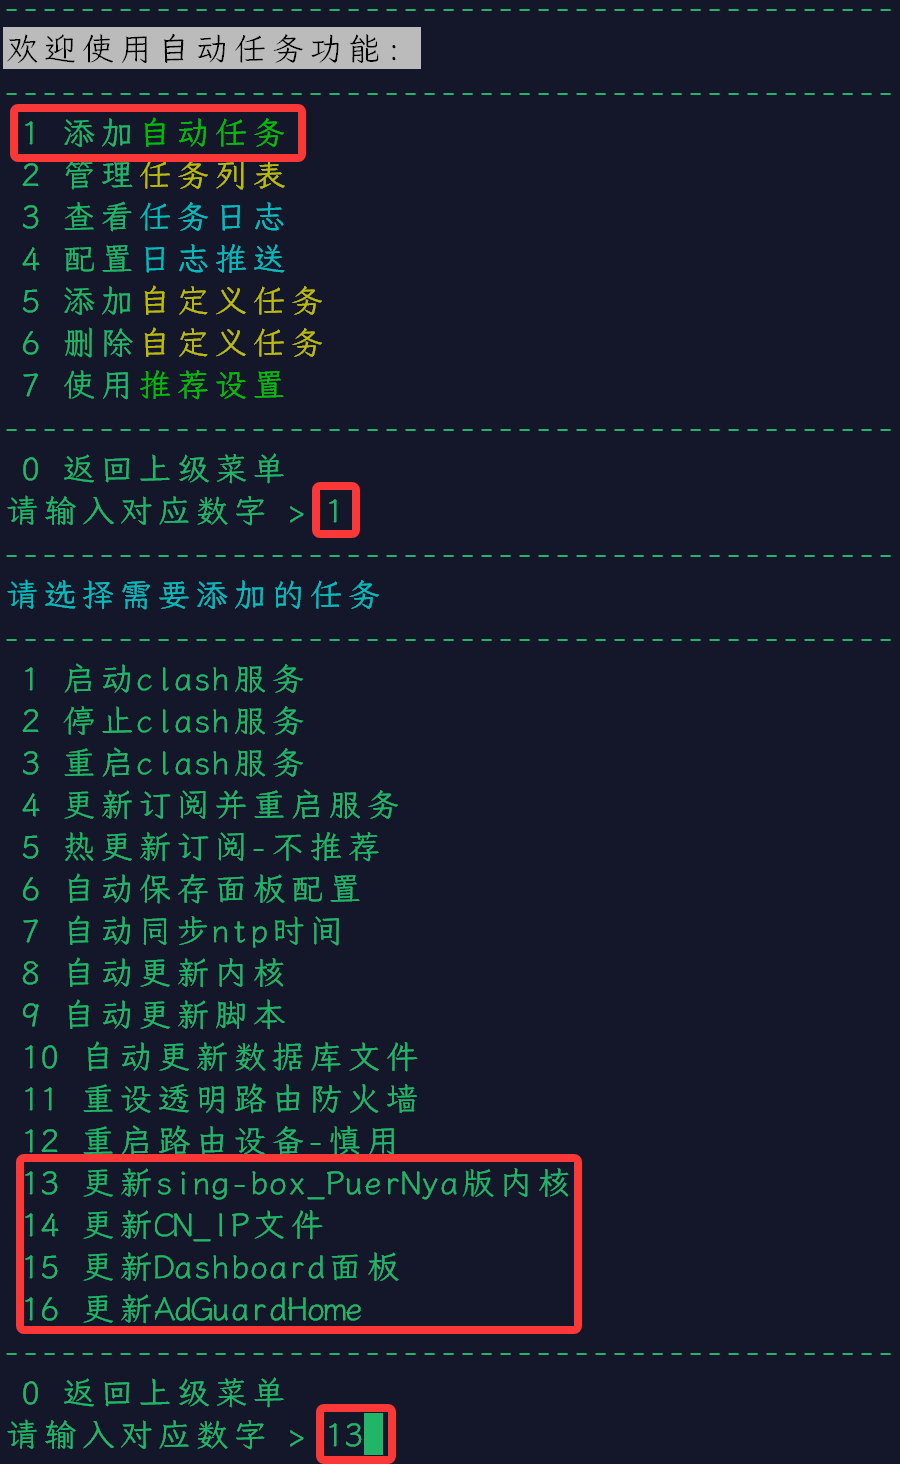
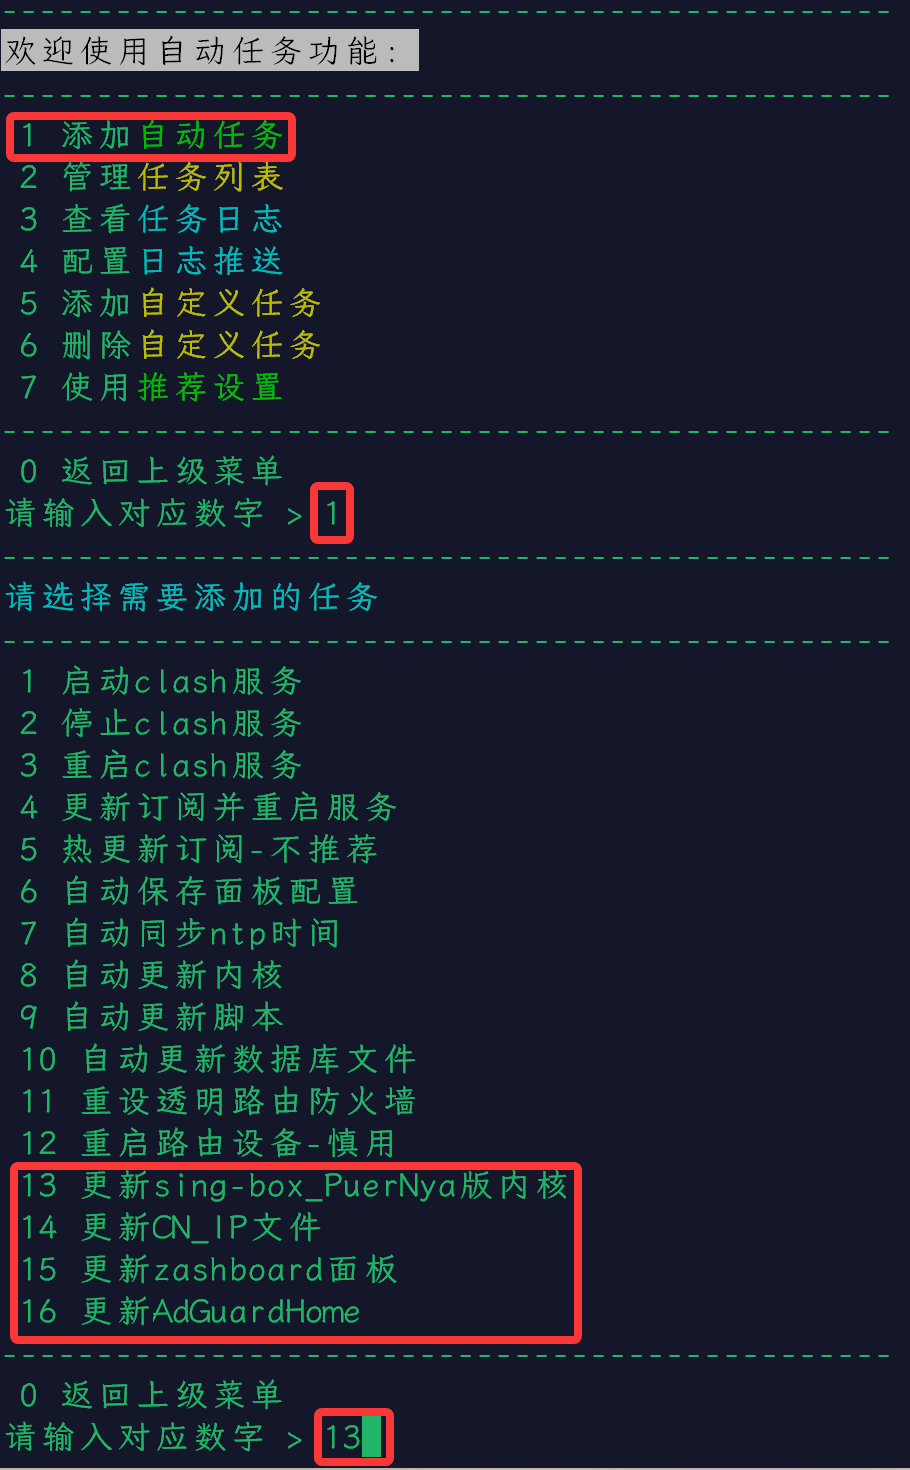
修改 Android 端分享教程为 Clash Mi；修改 zashboard 路径；其它优化

Changed region(s): [[0.0, 0.3074, 0.6533, 1.0], [0.0, 0.0, 0.4667, 0.2766], [0.3111, 0.9529, 0.4667, 1.0]]

diff --git a/_posts/2024-08-21-toolsettings-shellcrash-mihomo-geodata.md b/_posts/2024-08-21-toolsettings-shellcrash-mihomo-geodata.md
@@ -39,7 +39,7 @@ curl -o $CRASHDIR/Country.mmdb -L https://cdn.jsdelivr.net/gh/DustinWin/ruleset_
 ```shell
 201#curl -o $CRASHDIR/CrashCore.tar.gz -L https://ghfast.top/https://github.com/DustinWin/proxy-tools/releases/download/mihomo/mihomo-meta-linux-armv8.tar.gz && $CRASHDIR/start.sh restart >/dev/null 2>&1#更新mihomo内核
 202#curl -o $CRASHDIR/GeoSite.dat -L https://cdn.jsdelivr.net/gh/DustinWin/ruleset_geodata@mihomo-geodata/geosite-all.dat && curl -o $CRASHDIR/Country.mmdb -L https://cdn.jsdelivr.net/gh/DustinWin/ruleset_geodata@mihomo-geodata/Country.mmdb && $CRASHDIR/start.sh restart >/dev/null 2>&1#更新geodata路由规则文件
-203#curl -L https://ghfast.top/https://github.com/DustinWin/proxy-tools/releases/download/Dashboard/metacubexd.tar.gz | tar -zx -C $CRASHDIR/ui/ && $CRASHDIR/start.sh restart >/dev/null 2>&1#更新metacubexd面板
+203#curl -L https://ghfast.top/https://github.com/DustinWin/proxy-tools/releases/download/Dashboard/zashboard.tar.gz | tar -zx -C $CRASHDIR/ui/ && $CRASHDIR/start.sh restart >/dev/null 2>&1#更新zashboard面板
 ```
 
 按一下 Esc 键（退出键），输入英文冒号 `:`，继续输入 `wq` 并回车
@@ -67,11 +67,11 @@ curl -o $CRASHDIR/Country.mmdb -L https://cdn.jsdelivr.net/gh/DustinWin/ruleset_
 6. 进入主菜单 → 4 内核启动设置，选择 1 允许 ShellCrash 开机启动（若重启路由器后服务没有自动运行，可“设置自启延时”为 `30` 秒）
 7. 进入主菜单 → 5 配置自动任务 → 1 添加自动任务，可以看到末尾就有《[三](https://proxy-tutorials.dustinwin.us.kg/posts/toolsettings-shellcrash-mihomo-geodata/#%E4%B8%89-%E6%B7%BB%E5%8A%A0%E5%AE%9A%E6%97%B6%E4%BB%BB%E5%8A%A1)》中添加的定时任务，输入对应的数字并回车后可设置执行条件
 8. 进入主菜单 → 7 内核进阶设置，启用 4 启用域名嗅探
-9.  进入主菜单 → 6 导入配置文件 → 2 在线获取完整配置文件，粘贴《[生成带有自定义策略组和规则的 mihomo 配置文件直链-geodata 方案](https://proxy-tutorials.dustinwin.us.kg/posts/link-mihomo-geodata)》中生成的 .yaml 配置文件直链，启动服务即可
+9. 进入主菜单 → 6 导入配置文件 → 2 在线获取完整配置文件，粘贴《[生成带有自定义策略组和规则的 mihomo 配置文件直链-geodata 方案](https://proxy-tutorials.dustinwin.us.kg/posts/link-mihomo-geodata)》中生成的 .yaml 配置文件直链，启动服务即可
 10. 访问 Dashboard 面板 <http://192.168.31.1:9999/ui/>，首次打开需要添加“主机”和“端口”，分别填入 `192.168.31.1` 和 `9999` 并点击“添加”即可  
 <img src="/assets/img/tools/192-9999-dashboard.png" alt="设置部分 2" width="60%" />
 
-11.  进入 Dashboard 面板 → 代理 → 代理提供者，点击“转圈”图标，可手动更新节点
+11. 进入 Dashboard 面板 → 代理 → 代理提供者，点击“转圈”图标，可手动更新节点
 
 ## 五、 在线 Dashboard 面板
 推荐使用在线 Dashboard 面板 [zashboard](https://github.com/Zephyruso/zashboard)，网址：<https://board.zash.run.place>

diff --git a/_posts/2024-08-21-toolsettings-shellcrash-singboxp-geodata.md b/_posts/2024-08-21-toolsettings-shellcrash-singboxp-geodata.md
@@ -39,7 +39,7 @@ curl -o $CRASHDIR/geoip.db -L https://cdn.jsdelivr.net/gh/DustinWin/ruleset_geod
 ```shell
 201#curl -o $CRASHDIR/CrashCore.tar.gz -L https://ghfast.top/https://github.com/DustinWin/proxy-tools/releases/download/sing-box/sing-box-puernya-linux-armv8.tar.gz && $CRASHDIR/start.sh restart >/dev/null 2>&1#更新sing-box_PuerNya版内核
 202#curl -o $CRASHDIR/geosite.db -L https://cdn.jsdelivr.net/gh/DustinWin/ruleset_geodata@sing-box-geodata/geosite-all.db && curl -o $CRASHDIR/geoip.db -L https://cdn.jsdelivr.net/gh/DustinWin/ruleset_geodata@sing-box-geodata/geoip.db && $CRASHDIR/start.sh restart >/dev/null 2>&1#更新geodata路由规则文件
-203#curl -L https://ghfast.top/https://github.com/DustinWin/proxy-tools/releases/download/Dashboard/metacubexd.tar.gz | tar -zx -C $CRASHDIR/ui/ && $CRASHDIR/start.sh restart >/dev/null 2>&1#更新metacubexd面板
+203#curl -L https://ghfast.top/https://github.com/DustinWin/proxy-tools/releases/download/Dashboard/zashboard.tar.gz | tar -zx -C $CRASHDIR/ui/ && $CRASHDIR/start.sh restart >/dev/null 2>&1#更新zashboard面板
 ```
 
 按一下 Esc 键（退出键），输入英文冒号 `:`，继续输入 `wq` 并回车
@@ -67,7 +67,7 @@ curl -o $CRASHDIR/geoip.db -L https://cdn.jsdelivr.net/gh/DustinWin/ruleset_geod
 6. 进入主菜单 → 4 内核启动设置，选择 1 允许 ShellCrash 开机启动（若重启路由器后服务没有自动运行，可“设置自启延时”为 `30` 秒）
 7. 进入主菜单 → 5 配置自动任务 → 1 添加自动任务，可以看到末尾就有《[三](https://proxy-tutorials.dustinwin.us.kg/posts/toolsettings-shellcrash-singboxp-geodata/#%E4%B8%89-%E6%B7%BB%E5%8A%A0%E5%AE%9A%E6%97%B6%E4%BB%BB%E5%8A%A1)》中添加的定时任务，输入对应的数字并回车后可设置执行条件 
 8. 进入主菜单 → 6 导入配置文件 → 2 在线获取完整配置文件，粘贴《[生成带有自定义出站和规则的 sing-boxp 配置文件直链-geodata 方案](https://proxy-tutorials.dustinwin.us.kg/posts/link-singboxp-geodata)》中生成的 .json 配置文件直链，启动服务即可
-9.  访问 Dashboard 面板 <http://192.168.31.1:9999/ui/>，首次打开需要添加“主机”和“端口”，分别填入 `192.168.31.1` 和 `9999` 并点击“添加”即可  
+9. 访问 Dashboard 面板 <http://192.168.31.1:9999/ui/>，首次打开需要添加“主机”和“端口”，分别填入 `192.168.31.1` 和 `9999` 并点击“添加”即可  
 <img src="/assets/img/tools/192-9999-dashboard.png" alt="设置部分 2" width="60%" />
 
 10. 进入 Dashboard 面板 → 代理 → 代理提供者，点击“转圈”图标，可手动更新节点

diff --git a/_posts/2024-08-21-share-android-mihomo-ruleset.md b/_posts/2024-08-21-share-android-mihomo-ruleset.md
@@ -1,9 +1,9 @@
 ---
-title: 分享 FlClash for Android 采用 ruleset 方案的一套配置
+title: 分享 Clash Mi for Android 采用 ruleset 方案的一套配置
 description: 此配置搭载 mihomo 内核，采用 `RULE-SET` 规则搭配 .list 和 .mrs 规则集合文件
 date: 2024-08-21 18:08:13 +0800
 categories: [分享配置, Android]
-tags: [Clash, FlClash, mihomo, Android, ruleset, rule-set, 分享]
+tags: [Clash, Clash Mi, mihomo, Android, ruleset, rule-set, 分享]
 ---
 
 > 声明
@@ -308,11 +308,7 @@ dns:
 ---
 
 ## 二、 导入配置文件并启动
-1. 进入 [FlClash for Android](https://github.com/chen08209/FlClash) → 配置 → 添加配置 → URL，“URL”输入《[一](https://proxy-tutorials.dustinwin.us.kg/posts/share-android-mihomo-ruleset/#%E4%B8%80-%E7%94%9F%E6%88%90%E9%85%8D%E7%BD%AE%E6%96%87%E4%BB%B6-yaml-%E6%96%87%E4%BB%B6%E7%9B%B4%E9%93%BE)》中生成的配置文件 .yaml 直链，点击“提交”
-2. 待配置下载完成后返回到主界面，点击“▶”即可启动
-
-## 三、 在线 Dashboard 面板
-推荐使用在线 Dashboard 面板 [zashboard](https://github.com/Zephyruso/zashboard)，访问地址：<https://board.zash.run.place>
-1. 进入 FlClash for Android → 工具 → 设置 → 基本设置 → 常规，启用“外部控制器”
-2. 首次进入 <https://board.zash.run.place> 需要添加“后端地址”，直接点击“提交”即可访问 Dashboard 面板  
-<img src="/assets/img/share/127-9090-phone-dashboard.png" alt="在线 Dashboard 面板" width="60%" />
+1. 进入 [Clash Mi for Android](https://github.com/KaringX/clashmi) → “+”图标 → 添加配置链接，“配置链接/内容”输入《[一](https://proxy-tutorials.dustinwin.us.kg/posts/share-android-mihomo-ruleset/#%E4%B8%80-%E7%94%9F%E6%88%90%E9%85%8D%E7%BD%AE%E6%96%87%E4%BB%B6-yaml-%E6%96%87%E4%BB%B6%E7%9B%B4%E9%93%BE)》中生成的配置文件 .yaml 直链，点击“✓”
+2. 待配置下载完成后返回到主界面，进入核心设置，关闭所有配置项的覆写功能
+3. 再次返回到主界面，点击“未连接”右边的灰色按钮即可启动服务
+4. 待服务启动成功后可直接点击“面板”来使用 zashboard 面板

diff --git a/_posts/2024-08-21-pin-toolsinstall.md b/_posts/2024-08-21-pin-toolsinstall.md
@@ -12,7 +12,7 @@ pin: true
 1. 本教程中 **[AdGuard Home](https://github.com/AdguardTeam/AdGuardHome) 安装目录为 `/data/AdGuardHome`{: .filepath}**
 2. 本教程中的下载链接以 CPU 架构 ARMv8 为例，请注意修改链接后缀
 3. 查看 CPU 架构可连接 SSH 后执行命令 `uname -ms`，若执行结果是“linux aarch64”，就是搭载的 ARMv8 架构
-4. 以下所有命令均可全部复制后直接粘贴执行
+4. 以下所有命令均可全部复制后直接粘贴执行（若出现无法下载的情况，可更换[下载源](https://proxy-tutorials.dustinwin.us.kg/about/#%E5%AF%B9%E4%B8%8B%E8%BD%BD%E6%BA%90%E7%9A%84%E8%AF%B4%E6%98%8E)）
 
 ## 一、 安装 [ShellCrash](https://github.com/juewuy/ShellCrash)
 ### 1. 本地安装
@@ -84,11 +84,11 @@ curl -o $CRASHDIR/CrashCore.tar.gz -L https://ghfast.top/https://github.com/Dust
 连接 SSH 后执行如下命令：
 
 ```shell
-curl -L https://ghfast.top/https://github.com/DustinWin/proxy-tools/releases/download/Dashboard/metacubexd.tar.gz | tar -zx -C $CRASHDIR/ui/ && $CRASHDIR/start.sh restart
+curl -L https://ghfast.top/https://github.com/DustinWin/proxy-tools/releases/download/Dashboard/zashboard.tar.gz | tar -zx -C $CRASHDIR/ui/ && $CRASHDIR/start.sh restart
 ```
 
 - 注：若使用基于 [Chromium 项目](https://www.chromium.org/Home/)开发的浏览器打开网址去访问 Dashboard 面板时，以 [Chrome 浏览器](https://www.google.com/chrome/)为例，需要设置该网址域名“允许显示不安全内容”。方法如下：  
-进入设置 → 隐私和安全 → 网站设置 → 更多内容设置 → 不安全内容（或者直接在地址栏打开 chrome://settings/content/insecureContent 进行设置），在“允许显示不安全内容”内添加网址域名如：`metacubex.github.io`
+进入设置 → 隐私和安全 → 网站设置 → 更多内容设置 → 不安全内容（或者直接在地址栏打开 chrome://settings/content/insecureContent 进行设置），在“允许显示不安全内容”内添加网址域名如：`board.zash.run.place`
 
 ## 四、 安装 AdGuard Home
 ### 1. 安装 AdGuard Home

diff --git a/_posts/2024-08-22-share-shellcrash-singboxp-geodata.md b/_posts/2024-08-22-share-shellcrash-singboxp-geodata.md
@@ -252,7 +252,7 @@ curl -o $CRASHDIR/geoip.db -L https://cdn.jsdelivr.net/gh/DustinWin/ruleset_geod
 201#curl -o $CRASHDIR/CrashCore.tar.gz -L https://ghfast.top/https://github.com/DustinWin/proxy-tools/releases/download/sing-box/sing-box-puernya-linux-armv8.tar.gz && $CRASHDIR/start.sh restart >/dev/null 2>&1#更新sing-box_PuerNya版内核
 202#curl -o $CRASHDIR/geosite.db -L https://ghfast.top/https://github.com/DustinWin/ruleset_geodata/releases/download/sing-box-geodata/geosite.db && curl -o $CRASHDIR/geoip.db -L https://ghfast.top/https://github.com/DustinWin/ruleset_geodata/releases/download/sing-box-geodata/geoip-lite.db && $CRASHDIR/start.sh restart >/dev/null 2>&1#更新geodata路由规则文件
 203#curl -o $CRASHDIR/cn_ip.txt -L https://ghfast.top/https://github.com/DustinWin/geoip/releases/download/ips/cn_ipv4.txt && curl -o $CRASHDIR/cn_ipv6.txt -L https://ghfast.top/https://github.com/DustinWin/geoip/releases/download/ips/cn_ipv6.txt >/dev/null 2>&1#更新CN_IP文件
-204#rm -rf $CRASHDIR/ui/* && curl -L https://ghfast.top/https://github.com/DustinWin/proxy-tools/releases/download/Dashboard/zashboard.tar.gz | tar -zx -C $CRASHDIR/ui/ >/dev/null 2>&1#更新Dashboard面板
+204#rm -rf $CRASHDIR/ui/* && curl -L https://ghfast.top/https://github.com/DustinWin/proxy-tools/releases/download/Dashboard/zashboard.tar.gz | tar -zx -C $CRASHDIR/ui/ >/dev/null 2>&1#更新zashboard面板
 ```
 
 2. 按一下 Esc 键（退出键），输入英文冒号 `:`，继续输入 `wq` 并回车

diff --git a/_posts/2024-08-22-share-shellcrashadguardhome-singboxp-ruleset.md b/_posts/2024-08-22-share-shellcrashadguardhome-singboxp-ruleset.md
@@ -334,7 +334,7 @@ crash
 ```shell
 201#curl -o $CRASHDIR/CrashCore.tar.gz -L https://ghfast.top/https://github.com/DustinWin/proxy-tools/releases/download/sing-box/sing-box-puernya-linux-armv8.tar.gz && $CRASHDIR/start.sh restart >/dev/null 2>&1#更新sing-box_PuerNya版内核
 202#curl -o $CRASHDIR/cn_ip.txt -L https://ghfast.top/https://github.com/DustinWin/geoip/releases/download/ips/cn_ipv4.txt && curl -o $CRASHDIR/cn_ipv6.txt -L https://ghfast.top/https://github.com/DustinWin/geoip/releases/download/ips/cn_ipv6.txt >/dev/null 2>&1#更新CN_IP文件
-203#rm -rf $CRASHDIR/ui/* && curl -L https://ghfast.top/https://github.com/DustinWin/proxy-tools/releases/download/Dashboard/zashboard.tar.gz | tar -zx -C $CRASHDIR/ui/ >/dev/null 2>&1#更新Dashboard面板
+203#rm -rf $CRASHDIR/ui/* && curl -L https://ghfast.top/https://github.com/DustinWin/proxy-tools/releases/download/Dashboard/zashboard.tar.gz | tar -zx -C $CRASHDIR/ui/ >/dev/null 2>&1#更新zashboard面板
 204#curl -o /data/AdGuardHome/AdGuardHome -L https://ghfast.top/https://github.com/DustinWin/proxy-tools/releases/download/AdGuardHome/AdGuardHome_beta_linux_armv8 && /data/AdGuardHome/AdGuardHome -s restart >/dev/null 2>&1#更新AdGuardHome
 ```
 

diff --git a/_posts/2024-08-22-share-shellcrash-singboxp-ruleset.md b/_posts/2024-08-22-share-shellcrash-singboxp-ruleset.md
@@ -333,7 +333,7 @@ crash
 ```shell
 201#curl -o $CRASHDIR/CrashCore.tar.gz -L https://ghfast.top/https://github.com/DustinWin/proxy-tools/releases/download/sing-box/sing-box-puernya-linux-armv8.tar.gz && $CRASHDIR/start.sh restart >/dev/null 2>&1#更新sing-box_PuerNya版内核
 202#curl -o $CRASHDIR/cn_ip.txt -L https://ghfast.top/https://github.com/DustinWin/geoip/releases/download/ips/cn_ipv4.txt && curl -o $CRASHDIR/cn_ipv6.txt -L https://ghfast.top/https://github.com/DustinWin/geoip/releases/download/ips/cn_ipv6.txt >/dev/null 2>&1#更新CN_IP文件
-203#rm -rf $CRASHDIR/ui/* && curl -L https://ghfast.top/https://github.com/DustinWin/proxy-tools/releases/download/Dashboard/zashboard.tar.gz | tar -zx -C $CRASHDIR/ui/ >/dev/null 2>&1#更新Dashboard面板
+203#rm -rf $CRASHDIR/ui/* && curl -L https://ghfast.top/https://github.com/DustinWin/proxy-tools/releases/download/Dashboard/zashboard.tar.gz | tar -zx -C $CRASHDIR/ui/ >/dev/null 2>&1#更新zashboard面板
 ```
 
 2. 按一下 Esc 键（退出键），输入英文冒号 `:`，继续输入 `wq` 并回车

diff --git a/_posts/2024-08-22-toolsettings-shellcrash-singboxp-ruleset.md b/_posts/2024-08-22-toolsettings-shellcrash-singboxp-ruleset.md
@@ -30,7 +30,7 @@ curl -L https://ghfast.top/https://github.com/DustinWin/proxy-tools/releases/dow
 
 ```shell
 201#curl -o $CRASHDIR/CrashCore.tar.gz -L https://ghfast.top/https://github.com/DustinWin/proxy-tools/releases/download/sing-box/sing-box-puernya-linux-armv8.tar.gz && $CRASHDIR/start.sh restart >/dev/null 2>&1#更新sing-box_PuerNya版内核
-202#curl -L https://ghfast.top/https://github.com/DustinWin/proxy-tools/releases/download/Dashboard/metacubexd.tar.gz | tar -zx -C $CRASHDIR/ui/ && $CRASHDIR/start.sh restart >/dev/null 2>&1#更新metacubexd面板
+202#curl -L https://ghfast.top/https://github.com/DustinWin/proxy-tools/releases/download/Dashboard/zashboard.tar.gz | tar -zx -C $CRASHDIR/ui/ && $CRASHDIR/start.sh restart >/dev/null 2>&1#更新zashboard面板
 ```
 
 按一下 Esc 键（退出键），输入英文冒号 `:`，继续输入 `wq` 并回车

diff --git a/_posts/2024-08-21-toolsettings-shellcrash-mihomo-ruleset.md b/_posts/2024-08-21-toolsettings-shellcrash-mihomo-ruleset.md
@@ -30,7 +30,7 @@ curl -L https://ghfast.top/https://github.com/DustinWin/proxy-tools/releases/dow
 
 ```shell
 201#curl -o $CRASHDIR/CrashCore.tar.gz -L https://ghfast.top/https://github.com/DustinWin/proxy-tools/releases/download/mihomo/mihomo-meta-linux-armv8.tar.gz && $CRASHDIR/start.sh restart >/dev/null 2>&1#更新mihomo内核
-202#curl -L https://ghfast.top/https://github.com/DustinWin/proxy-tools/releases/download/Dashboard/metacubexd.tar.gz | tar -zx -C $CRASHDIR/ui/ && $CRASHDIR/start.sh restart >/dev/null 2>&1#更新metacubexd面板
+202#curl -L https://ghfast.top/https://github.com/DustinWin/proxy-tools/releases/download/Dashboard/zashboard.tar.gz | tar -zx -C $CRASHDIR/ui/ && $CRASHDIR/start.sh restart >/dev/null 2>&1#更新zashboard面板
 ```
 
 按一下 Esc 键（退出键），输入英文冒号 `:`，继续输入 `wq` 并回车

diff --git a/_posts/2024-08-21-share-android-singboxp-ruleset.md b/_posts/2024-08-21-share-android-singboxp-ruleset.md
@@ -263,7 +263,7 @@ tags: [sing-box, sing-boxp, Android, ruleset, rule_set, 分享]
     "clash_api": {
       "external_controller": "127.0.0.1:9090",
       "external_ui": "./",
-      "external_ui_download_url": "https://github.com/Zephyruso/zashboard/releases/latest/download/dist.zip",
+      "external_ui_download_url": "https://github.com/Zephyruso/zashboard/archive/gh-pages.zip",
       "secret": "",
       "default_mode": "Rule"
     }

diff --git a/_posts/2024-08-22-share-windows-singboxp-ruleset.md b/_posts/2024-08-22-share-windows-singboxp-ruleset.md
@@ -258,7 +258,7 @@ tags: [sing-box, sing-boxp, Windows, ruleset, rule_set, 分享]
     "clash_api": {
       "external_controller": "127.0.0.1:9090",
       "external_ui": "ui",
-      "external_ui_download_url": "https://github.com/Zephyruso/zashboard/releases/latest/download/dist.zip",
+      "external_ui_download_url": "https://github.com/Zephyruso/zashboard/archive/gh-pages.zip",
       "secret": "",
       "default_mode": "Rule"
     }

diff --git a/_posts/2024-08-21-share-shellcrash-mihomo-geodata.md b/_posts/2024-08-21-share-shellcrash-mihomo-geodata.md
@@ -136,7 +136,7 @@ log-level: error
 allow-lan: true
 unified-delay: true
 tcp-concurrent: true
-external-ui-url: "https://github.com/Zephyruso/zashboard/releases/latest/download/dist-cdn-fonts.zip"
+external-ui-url: "https://github.com/Zephyruso/zashboard/archive/gh-pages-cdn-fonts.zip"
 global-client-fingerprint: chrome
 profile: {store-selected: true, store-fake-ip: true}
 
